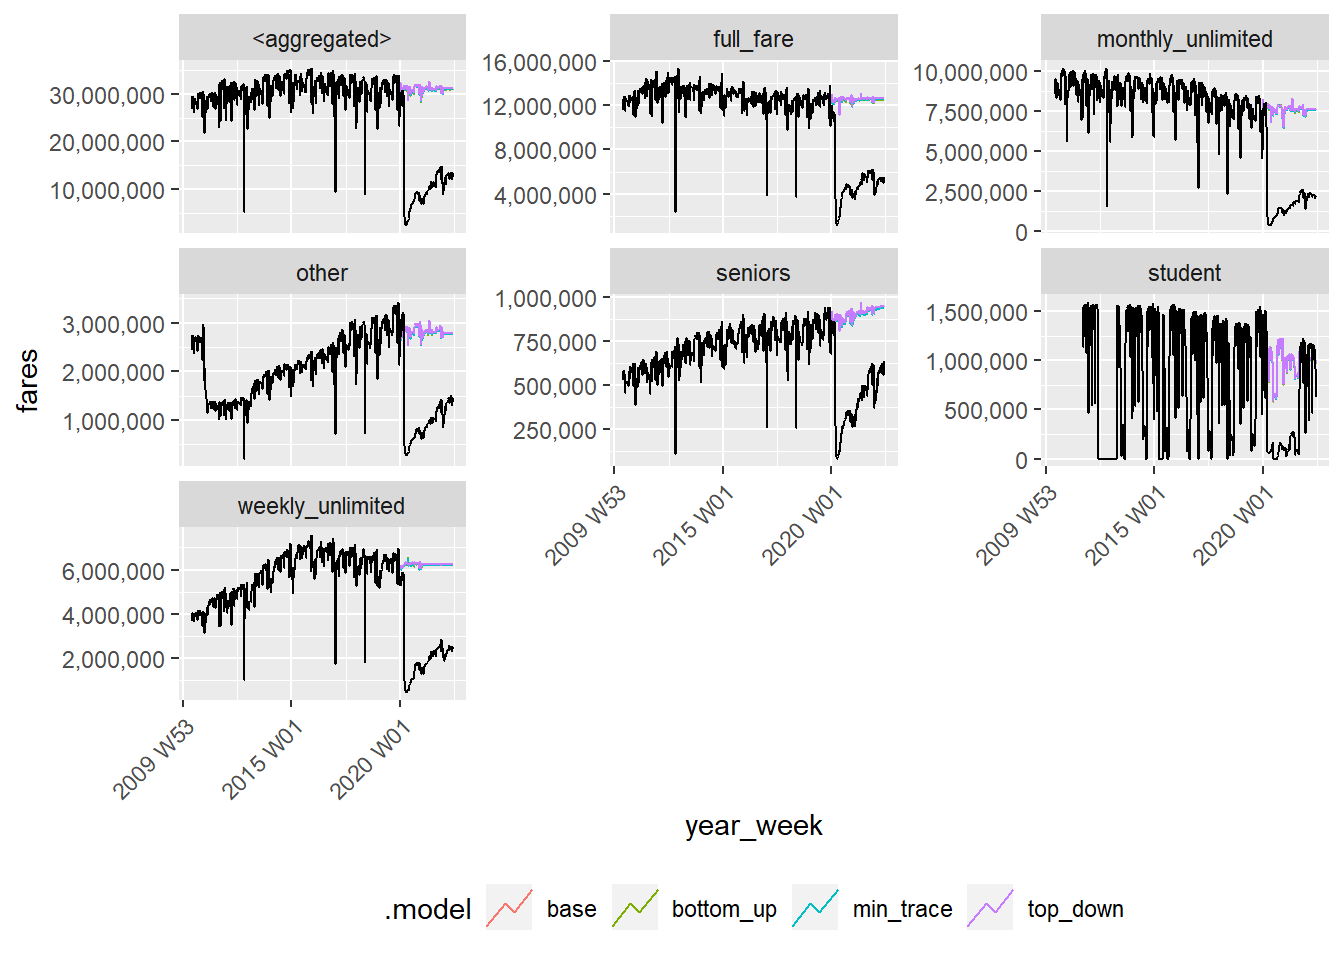
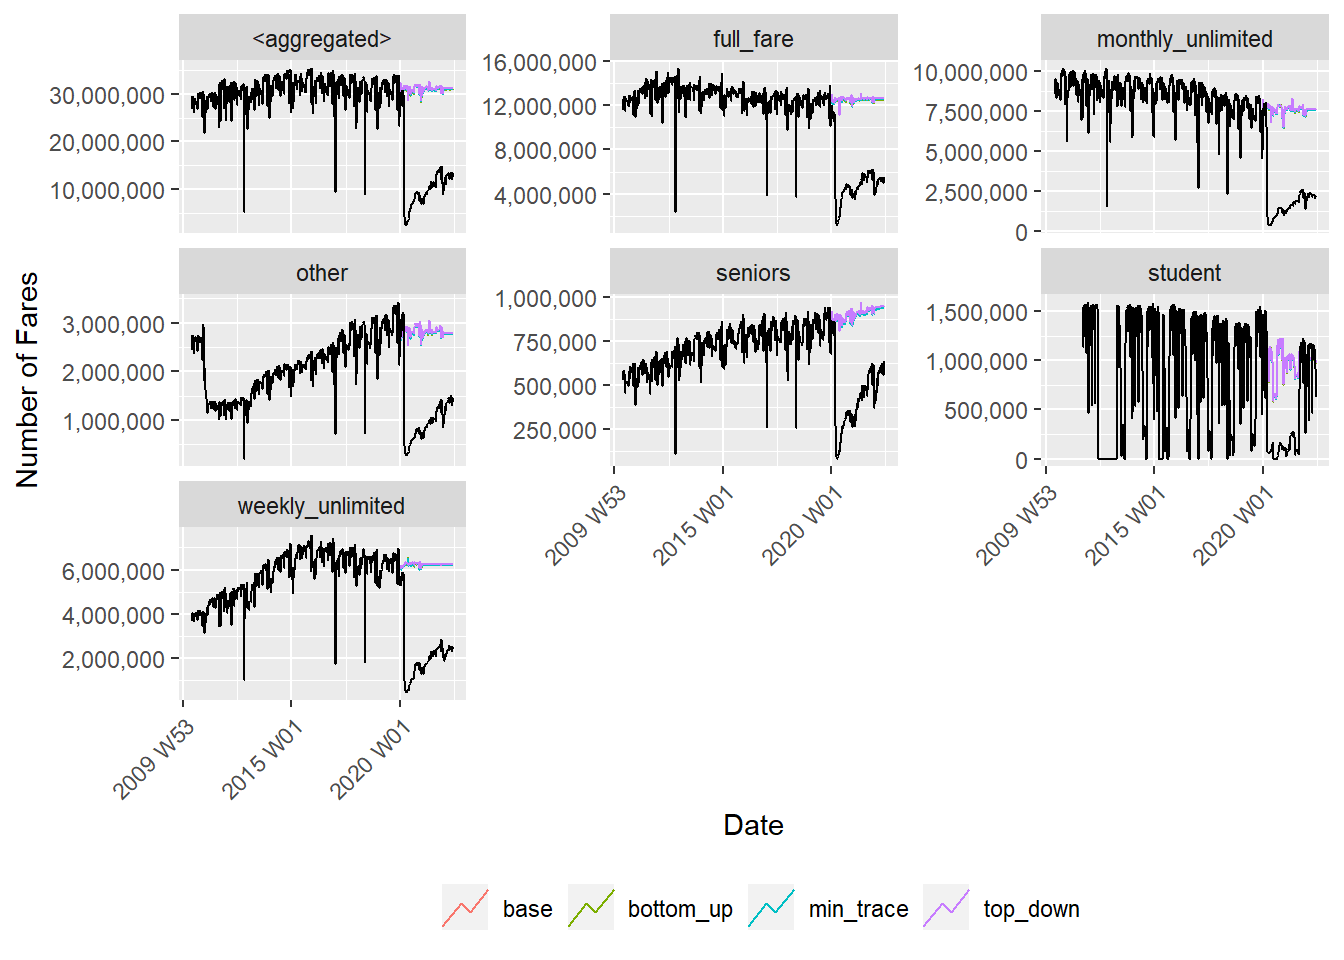
Touch-ups

Changed region(s): [[0.2812, 0.9375, 0.8438, 0.9688], [0.0, 0.2812, 0.0312, 0.5], [0.5, 0.8438, 0.625, 0.875]]

diff --git a/content/post/2022-08-24-exploring-types-of-subway-fares-with-hierarchical-forecasting/index.html b/content/post/2022-08-24-exploring-types-of-subway-fares-with-hierarchical-forecasting/index.html
@@ -23,9 +23,9 @@ projects: []
 
 
 
-<p>In my <a href="https://jlaw.netlify.app/2022/07/13/how-much-has-covid-cost-the-nyc-subway-system-in-lost-fares/">prior post</a> I used forecasting to look at the effect of COVID from an expected amount of New York City subway swipes. In this post I will drill a level deeper to run forecasts for various types of subway cards to see if any particularly type has recovered better or worse than any others.</p>
-<p>The goal for this post will be to create a top-level forecast for total NYC subway fares and forecasts for each of the types of subway cards. The sub-levels of individual subway cards form a natural hierarchy with the total number and my forecast, I’d like the forecasts for the sub-levels and for the total to match each other for the sake of consistency. This is called “hierarchical forecasting”. More details can be found in Rob Hyndman and George Athanasopoulos’ <a href="https://otexts.com/fpp3/hierarchical.html">Forecasting: Principles and Practice</a>.</p>
-<p>The book makes use of the <code>fable</code> and <code>tsibble</code> packages and I will use those here are well.</p>
+<p>In my <a href="https://jlaw.netlify.app/2022/07/13/how-much-has-covid-cost-the-nyc-subway-system-in-lost-fares/">prior post</a> I used forecasting to look at the effect of COVID on the expected amount of New York City subway swipes. In this post I will drill a level deeper to run forecasts for various types of subway fares to see if any particularly type has recovered better or worse than any others.</p>
+<p>The goal for this post will be to create a top-level forecast for total NYC subway fares and forecasts for each of the types of subway fares. The sub-levels of individual subway fares form a natural hierarchy with the total number. For my forecast, I’d like the forecasts for the sub-levels and for the total to match each other for the sake of consistency. This is called “hierarchical forecasting”. More details can be found in Rob Hyndman and George Athanasopoulos’ <a href="https://otexts.com/fpp3/hierarchical.html">Forecasting: Principles and Practice</a>.</p>
+<p>The book makes use of the <code>fable</code> and <code>tsibble</code> packages.</p>
 <div id="libraries" class="section level2">
 <h2>Libraries</h2>
 <pre class="r"><code>library(tsibble) # Data Structure for Time Series
@@ -38,7 +38,7 @@ library(scales) # Convenience Functions for Percents</code></pre>
 <h2>Data Preparation</h2>
 <p>The data set will be the same as from the <a href="https://jlaw.netlify.app/2022/07/13/how-much-has-covid-cost-the-nyc-subway-system-in-lost-fares/">prior blog post</a> which contains weekly Subway data by station, card type, and week from May 2010 through June 2022. Please see the <a href="https://jlaw.netlify.app/2022/07/13/how-much-has-covid-cost-the-nyc-subway-system-in-lost-fares/">previous post</a> for more details on the data processing. The raw fare files come from the <a href="http://web.mta.info/developers/fare.html">MTA’s Website</a>.</p>
 <pre class="r"><code>dt &lt;- readRDS(here(&#39;content/post/2022-07-13-how-much-has-covid-cost-the-nyc-subway-system-in-lost-fares/data/mta_data.rds&#39;))</code></pre>
-<p>In the data set there are 30 different fare types, however, I really don’t want to create 30 different forecasts. Especially if some of these are going to be small. The top 5 fare types make up 93% of the fares, so I’ll aggregate the data set to the week and fare_type level and add up the fares column which represents the number of swipes on each card.</p>
+<p>In the data set there are 30 different fare types, however, I really don’t want to create 30 different forecasts. Especially if some of these are going to be small volume. The top 5 fare types make up 93% of the fares, so I’ll group the other 25 into an “other” category. Then I aggregate the data set to the week and fare_type level and add up the fares column which represents the number of swipes for each fare type.</p>
 <pre class="r"><code>dt_by_fare &lt;- dt %&gt;%
   #Remove Out of Pattern Thursday File
   filter(week_start != &#39;2010-12-30&#39;) %&gt;%
@@ -64,7 +64,7 @@ library(scales) # Convenience Functions for Percents</code></pre>
 <pre class="r"><code>dt_ts &lt;- tsibble(dt_by_fare, key = fare_type, index = year_week) %&gt;% 
   aggregate_key(fare_type, fares = sum(fares))</code></pre>
 <p>The <code>dt_ts</code> data set is now 628 rows greater than the <code>dt_by_fare</code> data set. This is because of the aggregated layer that was generated from <code>aggregate_key()</code>. The 628 is the number of distinct weeks in the data.</p>
-<p>If continuing down the forecasting path there were eventually be an error during the forecast step due to a missing value in the initial time series. The <code>scan_gaps()</code> function from <code>tsibble</code> will look for implicit missing observations (gaps in the index). The <code>count_gaps()</code> function will also provide a similar summary.</p>
+<p>If continuing down the forecasting path there would eventually be an error during the forecast step due to a missing value in the initial time series. The <code>scan_gaps()</code> function from <code>tsibble</code> will look for implicit missing observations (gaps in the index). The <code>count_gaps()</code> function will also provide a similar summary.</p>
 <pre class="r"><code>scan_gaps(dt_ts) %&gt;% 
   count(year_week) %&gt;%
   kable()</code></pre>
@@ -205,6 +205,7 @@ dt_ts %&gt;%
 <pre class="r"><code>autoplot(fc, dt_ts %&gt;% ungroup(), level = NULL) + 
   facet_wrap(~fare_type, scales = &quot;free_y&quot;) + 
   scale_y_continuous(labels = scales::comma_format()) + 
+  labs(color = &quot;&quot;, x = &quot;Date&quot; ,y = &quot;Number of Fares&quot;) + 
   theme(
     legend.position = &#39;bottom&#39;,
     axis.text.x = element_text(angle = 45, hjust = 1, vjust = 1)
@@ -307,7 +308,7 @@ In the <em>base</em> (unreconciled) model the top-level time series is 500K fare
       axis.text.x = element_text(angle = 45, hjust = 1, vjust = 1)
     )</code></pre>
 <p><img src="{{< blogdown/postref >}}index_files/figure-html/recovery-1.png" width="100%" /></p>
-<p>Overall, the forecast shows that subway fares have only recovered to 40% of the Pre-COVID levels. The fare types that have recovered the most are the Student and Senior cards which may make sense as schools are generally back to in-person person. The fare type that has recovered the least is the monthly unlimited card which also makes sense as hybrid work environments make paying for a full month of unlimited a less valuable proposition.</p>
+<p>Overall, the forecast shows that subway fares have only recovered to 40% of the Pre-COVID levels. The fare types that have recovered the most are the Student and Senior cards which may make sense as schools are generally back to in-person instruction. The fare type that has recovered the least is the monthly unlimited card which also makes sense as hybrid work environments make paying for a full month of unlimited a less valuable proposition.</p>
 </div>
 <div id="appendix-measuring-forecast-accuracy" class="section level2">
 <h2>Appendix: Measuring Forecast Accuracy</h2>
@@ -319,16 +320,85 @@ fc %&gt;%
     measures = list(rmse = RMSE, mase = MASE, mape = MAPE)
   ) %&gt;%
   filter(.model == &#39;min_trace&#39;) %&gt;% 
-  arrange(mape)</code></pre>
-<pre><code>## # A tibble: 7 × 6
-##   .model    fare_type         .type      rmse  mase   mape
-##   &lt;chr&gt;     &lt;chr*&gt;            &lt;chr&gt;     &lt;dbl&gt; &lt;dbl&gt;  &lt;dbl&gt;
-## 1 min_trace seniors           Test    497396.  9.09   169.
-## 2 min_trace full_fare         Test   7735877. 11.6    199.
-## 3 min_trace other             Test   1835483.  5.46   241.
-## 4 min_trace &lt;aggregated&gt;      Test  20683422. 12.3    261.
-## 5 min_trace weekly_unlimited  Test   4266233.  8.34   295.
-## 6 min_trace monthly_unlimited Test   5788133. 12.8    489.
-## 7 min_trace student           Test    703170.  1.47 43077.</code></pre>
+  arrange(mape) %&gt;% 
+  kable()</code></pre>
+<table style="width:100%;">
+<colgroup>
+<col width="15%" />
+<col width="27%" />
+<col width="9%" />
+<col width="16%" />
+<col width="15%" />
+<col width="16%" />
+</colgroup>
+<thead>
+<tr class="header">
+<th align="left">.model</th>
+<th align="left">fare_type</th>
+<th align="left">.type</th>
+<th align="right">rmse</th>
+<th align="right">mase</th>
+<th align="right">mape</th>
+</tr>
+</thead>
+<tbody>
+<tr class="odd">
+<td align="left">min_trace</td>
+<td align="left">seniors</td>
+<td align="left">Test</td>
+<td align="right">497395.6</td>
+<td align="right">9.090555</td>
+<td align="right">169.1391</td>
+</tr>
+<tr class="even">
+<td align="left">min_trace</td>
+<td align="left">full_fare</td>
+<td align="left">Test</td>
+<td align="right">7735877.4</td>
+<td align="right">11.608419</td>
+<td align="right">199.1030</td>
+</tr>
+<tr class="odd">
+<td align="left">min_trace</td>
+<td align="left">other</td>
+<td align="left">Test</td>
+<td align="right">1835483.2</td>
+<td align="right">5.458558</td>
+<td align="right">241.3594</td>
+</tr>
+<tr class="even">
+<td align="left">min_trace</td>
+<td align="left"><aggregated></td>
+<td align="left">Test</td>
+<td align="right">20683422.4</td>
+<td align="right">12.284181</td>
+<td align="right">260.5088</td>
+</tr>
+<tr class="odd">
+<td align="left">min_trace</td>
+<td align="left">weekly_unlimited</td>
+<td align="left">Test</td>
+<td align="right">4266233.0</td>
+<td align="right">8.342853</td>
+<td align="right">295.2711</td>
+</tr>
+<tr class="even">
+<td align="left">min_trace</td>
+<td align="left">monthly_unlimited</td>
+<td align="left">Test</td>
+<td align="right">5788133.3</td>
+<td align="right">12.763524</td>
+<td align="right">489.1300</td>
+</tr>
+<tr class="odd">
+<td align="left">min_trace</td>
+<td align="left">student</td>
+<td align="left">Test</td>
+<td align="right">703170.5</td>
+<td align="right">1.469493</td>
+<td align="right">43077.3022</td>
+</tr>
+</tbody>
+</table>
 <p>Although since we’re trying predict “what if COVID didn’t happen” I don’t expect these forecasts to perform very well.</p>
 </div>
